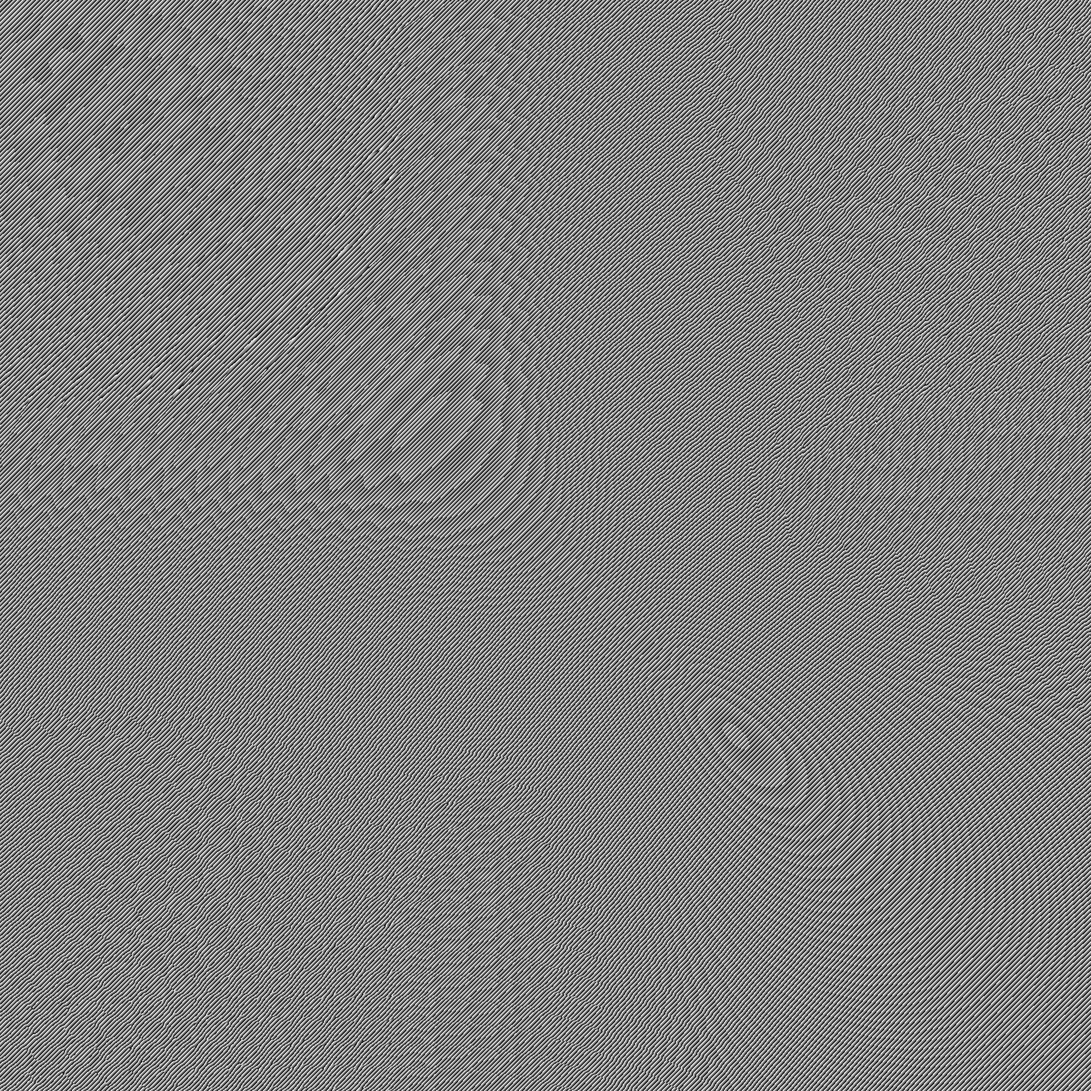
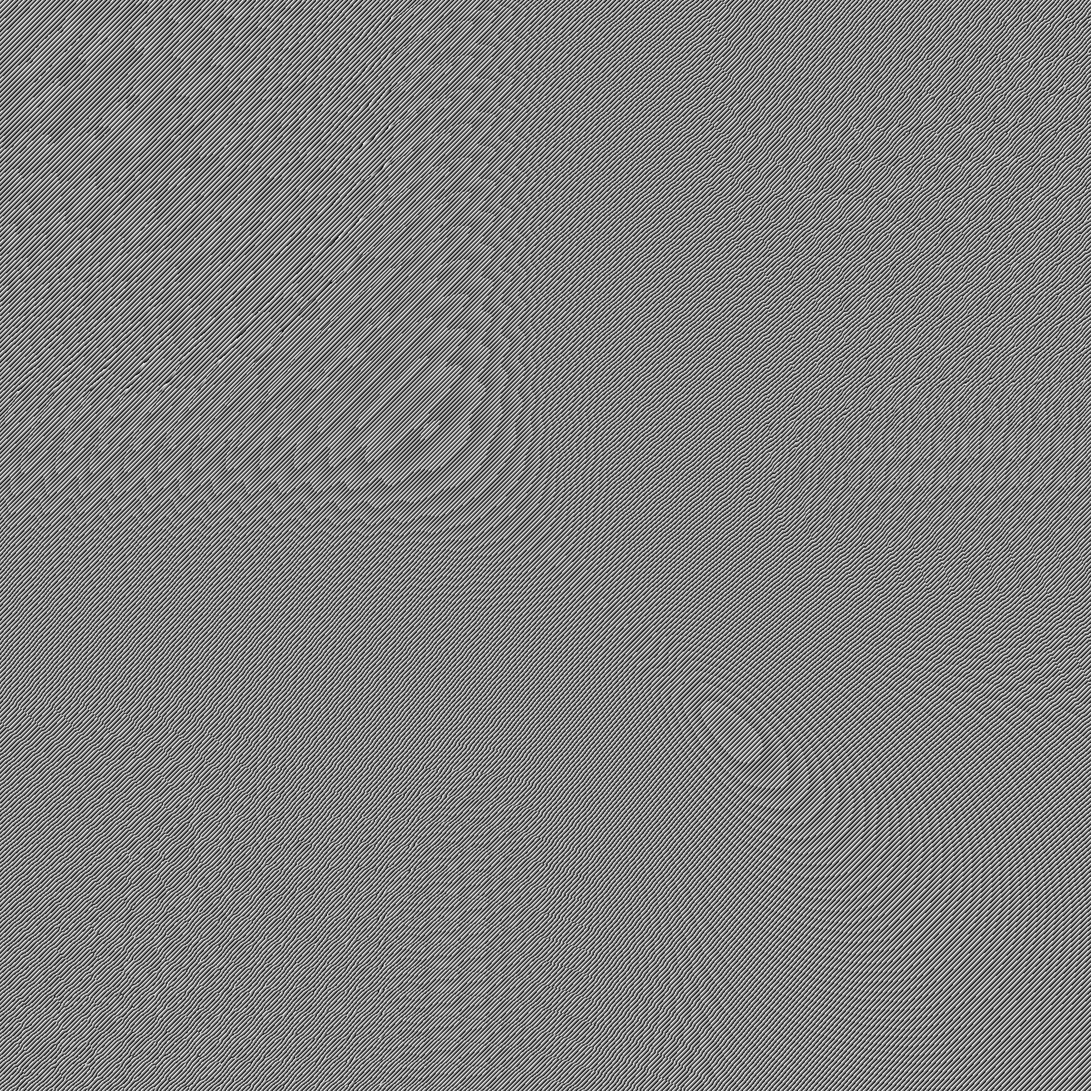
fixed beasm shifting

diff --git a/main.py b/main.py
@@ -88,8 +88,8 @@ z = 1/(1/f - 1/zo)  # aperture-sensor distance
 r = f / 16 / 2  # radius of aperture
 
 # define incident wave
-thetaX = 8 / 180 * np.pi
-thetaY = 8 / 180 * np.pi
+thetaX = 13 / 180 * np.pi
+thetaY = 13 / 180 * np.pi
 R = zo / np.sqrt(1 - np.sin(thetaX)**2 - np.sin(thetaY)**2)
 x0, y0 = R * np.sin(thetaX), R * np.sin(thetaY)
 s0, t0 = -x0 / zo * z, -y0 / zo * z
@@ -126,7 +126,7 @@ B = compute_bandwidth(False, 2*r, lam, pitchx, pitchy, l1=1/(1/f-1/zo), s=1.5)
 
 
 print('-------------- Propagating with shift BEASM --------------')
-path = f'results1/BEASM{Nx, Ny}-({thetaX / np.pi * 180:.0f}, {thetaY / np.pi * 180:.0f})'
+path = f'results/BEASM{Nx, Ny}-({thetaX / np.pi * 180:.0f}, {thetaY / np.pi * 180:.0f})'
 from shift_BEASM import shift_BEASM2d
 prop = shift_BEASM2d((s0, t0), z, x, y, s, t, lam)
 start = time.time()
@@ -139,22 +139,22 @@ phase = np.angle(U1) % (2*np.pi)
 save_image(phase, f'{path}-Phi.png')
 
 
-# print('----------------- Propagating with ASASM -----------------')
-# path = f'results1/ASASM{Nx, Ny}-({thetaX / np.pi * 180:.0f}, {thetaY / np.pi * 180:.0f})'
-# from ASASM import AdpativeSamplingASM
-# device = 'cpu'
-# # device = 'cuda:3'
-# prop = AdpativeSamplingASM(thetaX, thetaY, z, x, y, s, t, lam, B, device, crop_bandwidth=True)
-# E1_res = E1 / get_plane_wave(k, (x0, y0), np.stack((xx, yy), axis=0), zo)
-# start = time.time()
-# # U2 = prop(E1, decomposed=False)
-# U2 = prop(E1, decomposed=False, save_path=path)
-# # U2 = prop(E1_res, decomposed=True)
-# end = time.time()
-# print(f'Time elapsed for ASASM: {end-start:.2f}')
-# save_image(abs(U2), f'{path}.png')
-# phase = np.angle(U2) % (2*np.pi)
-# save_image(phase, f'{path}-Phi.png')
+print('----------------- Propagating with ASASM -----------------')
+path = f'results/ASASM{Nx, Ny}-({thetaX / np.pi * 180:.0f}, {thetaY / np.pi * 180:.0f})'
+from ASASM import AdpativeSamplingASM
+device = 'cpu'
+# device = 'cuda:3'
+prop = AdpativeSamplingASM(thetaX, thetaY, z, x, y, s, t, lam, B, device, crop_bandwidth=True)
+E1_res = E1 / get_plane_wave(k, (x0, y0), np.stack((xx, yy), axis=0), zo)
+start = time.time()
+# U2 = prop(E1, decomposed=False)
+U2 = prop(E1, decomposed=False, save_path=path)
+# U2 = prop(E1_res, decomposed=True)
+end = time.time()
+print(f'Time elapsed for ASASM: {end-start:.2f}')
+save_image(abs(U2), f'{path}.png')
+phase = np.angle(U2) % (2*np.pi)
+save_image(phase, f'{path}-Phi.png')
 
 
 # print('-------------- Propagating with RS integral --------------')

diff --git a/shift_BEASM.py b/shift_BEASM.py
@@ -151,14 +151,14 @@ class shift_BEASM2d:
         # the source points
         s0, t0 = st_offset
         xx, yy = np.meshgrid(xvec, yvec, indexing='xy')
-        self.x = xx.flatten() / np.max(np.abs(xvec)) * np.pi
-        self.y = yy.flatten() / np.max(np.abs(yvec)) * np.pi
+        self.x = xx.flatten()
+        self.y = yy.flatten()
         self.xmax, self.ymax = abs(xvec).max(), abs(yvec).max()
-        # self.smax, self.tmax = svec.max(), tvec.max()
 
         # the target points
         ss, tt = np.meshgrid(svec - s0, tvec - t0, indexing='xy')
         self.s, self.t = ss.flatten(), tt.flatten()
+        # self.smax, self.tmax = (svec).max(), (tvec).max()
 
         # the frequency points
         self.Lfx = Nx * pad
@@ -202,11 +202,13 @@ class shift_BEASM2d:
         fy = np.linspace(fy_le, fy_ue - dfy, self.Lfy, dtype=dtype)
         fxx, fyy = np.meshgrid(fx, fy, indexing='xy')
 
-        K1 = Nx / 2 / fftmaxX
-        K2 = Ny / 2 / fftmaxY
+        # K1 = Nx / 2 / fftmaxX
+        # K2 = Ny / 2 / fftmaxY
 
-        self.fx = fxx.flatten() * K1
-        self.fy = fyy.flatten() * K2
+        self.fxmax = fx.max()
+        self.fymax = fy.max()
+        self.fx = fxx.flatten() 
+        self.fy = fyy.flatten() 
 
         fxx, fyy = fxx.astype(np.complex128), fyy.astype(np.complex128)
         self.H = np.exp(1j * k * (wvls * fxx * s0 + wvls * fyy * t0 
@@ -224,10 +226,11 @@ class shift_BEASM2d:
         E0 = E0.astype(np.complex128)
         E0 = E0.flatten()
         
-        Fu = finufft.nufft2d3(self.x, self.y, E0, self.fx, self.fy, isign=iflag, eps=eps)
-        Eout = finufft.nufft2d3(self.fx / self.Nx * np.pi, self.fy / self.Ny * np.pi, self.H * Fu, 
-                        self.s / self.xmax * self.Mx, self.t / self.ymax * self.My, 
-                        isign=-iflag, eps=eps).reshape(self.My, self.Mx)
+        Fu = finufft.nufft2d3(self.x / self.xmax * np.pi, self.y / self.ymax * np.pi, E0, 
+                            self.fx * self.xmax * 2, self.fy * self.ymax * 2, isign=iflag, eps=eps)
+        Eout = finufft.nufft2d3(self.fx / self.fxmax * np.pi, self.fy / self.fymax * np.pi, self.H * Fu, 
+                            self.s * self.fxmax * 2, self.t * self.fymax * 2, 
+                            isign=-iflag, eps=eps).reshape(self.My, self.Mx)
 
         Eout /= np.max(np.abs(Eout))
 
